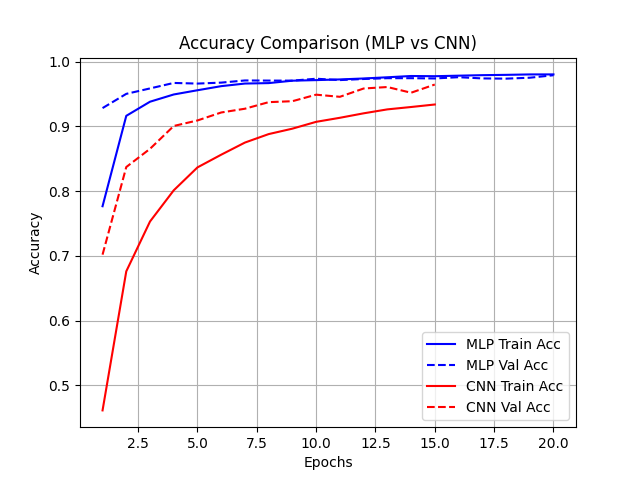
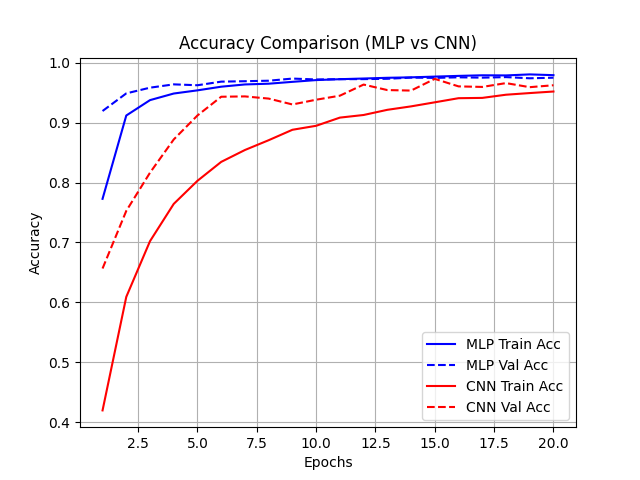
readme touches

diff --git a/src/config.py b/src/config.py
@@ -7,16 +7,16 @@ level = "easy"                  # easy/medium/hard
 
 # MODEL
 model = "mlp"                   # "mlp" or "cnn"
-train_new = True               # if True, train new model, else use best.pt
+train_new = False               # if True, train new model, else use best.pt
 
 #ENCODING
 encode = False
 
 #TRAINING
 batch_size = 32
-epochs = 10
+epochs = 20
 lr = 1e-3
 image_size = (64, 64)           # Image size for CNN
 
 #RESULTS
-compare=False
+compare=True

diff --git a/README.md b/README.md
@@ -28,8 +28,11 @@ https://www.kaggle.com/datasets/diyer22/retail-product-checkout-dataset
 -Antes de ejecutar ajuste las variables encontradas en `src/config.py`   
 -Aqui debe indicar si el modelo es `"mlp"` o `"cnn"`, guardando la variable `model`   
 -Ademas debe especificar la dificultad de las imagenes a utilizar, ya sea `"easy"`, `"medium"` o `"hard"` , guardando la variable `level`   
--Por ultimo y mas importante, si va a usar `MLP` debe indicar si va a realizar el encoding, indicando `True` o `False` en la variable `encode`   
+-Lo mas importantees que se debe indicar si se necesita precomputar tensores/embeddings, indicando `True` o `False` en la variable `encode`   
 -El encoding solo se necesita realizar una vez para cada dificultad, luego se puede entrenar tomando los embeddings guardados   
+-Ademas hay que indicar si se quiere utilizar un modelo preentrenado, o se quiere entrenar uno nuevo, indicando `True` o `False` en la variable `train_new`   
+-La variable `compare` indica si se quieren realizar graficos comparativos entre el mejor modelo MLP y el mejor modelo CNN (`True` o `False`)   
+-Por ultimo se deben indicar los parametros de entrenamiento: `epochs`, `batch_size`, `lr` (learning rate) y para CNN el `image_size`
 -Los resultados y metricas seran guardados en la carpeta `results/`   
 
 ### Estructura del programa
